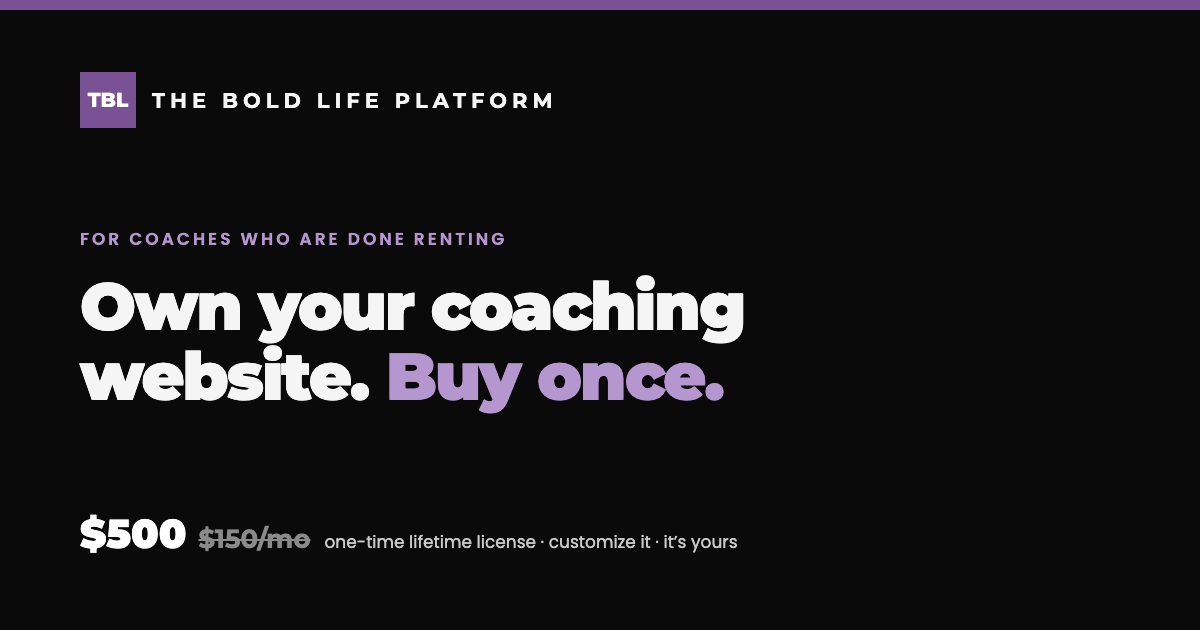
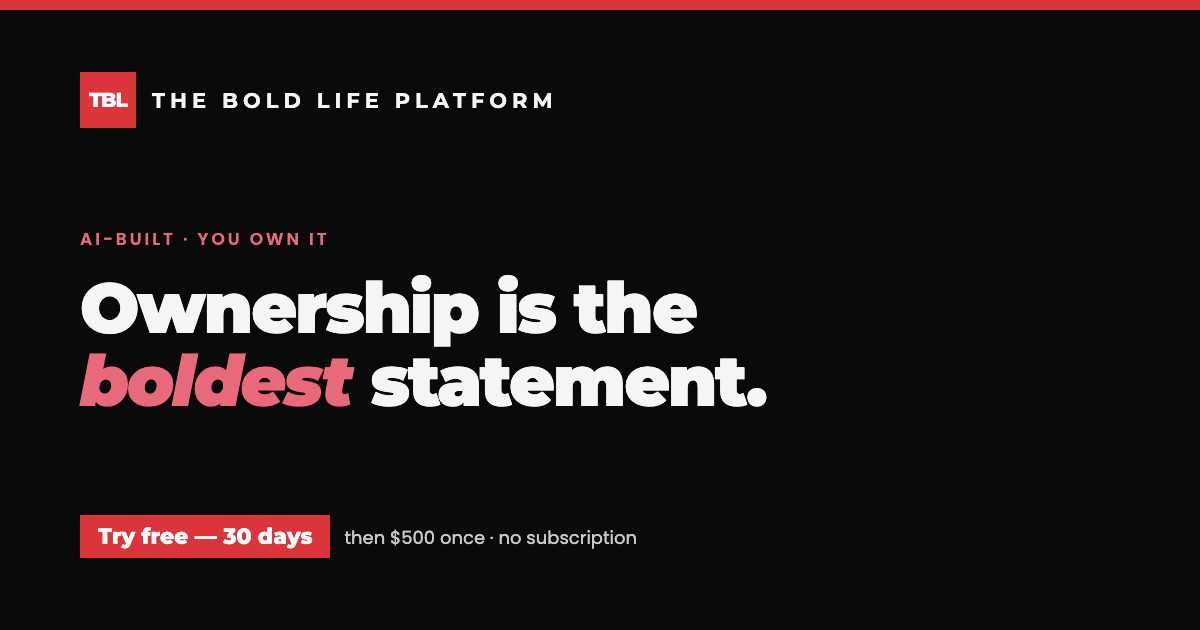
Reposition: "Ownership is the boldest statement" + 30-day free trial path
Per James: lead with the bold idea, not the competitor. Kajabi drops to a small
cost reference (content, not credibility); the brand leads with Ownership + AI.

- Hero: "Ownership is the boldest statement." Simple. We use AI to build you a
  coaching platform you own outright. CTA is "Try it free — 30 days", not Buy.
- Offer reframed as a 30-day free trial -> then $500 once to own it (no
  subscription). Steps, pricing, badges, comparison, contact and meta/title/OG
  all updated; the math card and compare now say "Renting" with Kajabi only as a
  parenthetical example.
- AI framed as the mechanism: "that speed is why owning it costs $500, not $5,000."
- Buy path wired: every "Try it free" button is data-try and auto-activates when
  TRIAL_LINK is set (safe fallback to contact/email until then).
- success.html: branded trial/payment confirmation (Stripe redirect target).
- SETUP-SELLING.md: exact steps for the trial link, the $500 one-time Stripe
  payment link, and a custom domain — the things only the owner can set up.
- New OG card; CI checks success.html.

diff --git a/index.html b/index.html
@@ -3,11 +3,11 @@
 <head>
 <meta charset="utf-8">
 <meta name="viewport" content="width=device-width, initial-scale=1, viewport-fit=cover">
-<title>The Bold Life Platform — Own Your Coaching Website. Buy Once.</title>
-<meta name="description" content="Kajabi, simplified. A white-label coaching website we build for you — your brand, your domain, yours to own — for a one-time $500 lifetime license instead of $150/month forever. See the live case study: The Bold Life.">
+<title>The Bold Life Platform — Own Your Coaching Website. Try Free.</title>
+<meta name="description" content="Ownership is the boldest statement. We use AI to build you a coaching platform you own outright — your brand, your domain, no subscription — for a one-time $500 lifetime license. See the live case study: The Bold Life.">
 <meta name="author" content="The Bold Life">
-<meta property="og:title" content="The Bold Life Platform — Own Your Coaching Website. Buy Once.">
-<meta property="og:description" content="Kajabi, simplified. A white-label coaching website we build for you — your brand, your domain, yours to own. One-time $500, not $150/month forever.">
+<meta property="og:title" content="The Bold Life Platform — Own Your Coaching Website. Try Free.">
+<meta property="og:description" content="Ownership is the boldest statement. An AI-built coaching platform you own outright — your brand, your domain, no subscription. One-time $500.">
 <meta property="og:type" content="website">
 <meta property="og:url" content="https://designresearchgroup.github.io/coach-platform/">
 <meta property="og:site_name" content="The Bold Life Platform">
@@ -19,7 +19,7 @@
 <meta property="og:image:alt" content="The Bold Life Platform — own your coaching website, buy once, $500">
 <meta name="twitter:card" content="summary_large_image">
 <meta name="twitter:title" content="The Bold Life Platform — own your coaching website">
-<meta name="twitter:description" content="Kajabi, simplified. Buy once, customize, own it. One-time $500, not $150/month.">
+<meta name="twitter:description" content="AI-built. Buy once, own it outright. One-time $500 — no subscription.">
 <meta name="twitter:image" content="https://designresearchgroup.github.io/coach-platform/img/og.png">
 <link rel="canonical" href="https://designresearchgroup.github.io/coach-platform/">
 <link rel="icon" type="image/svg+xml" href="img/favicon.svg">
@@ -28,7 +28,7 @@
 <link rel="preconnect" href="https://fonts.gstatic.com" crossorigin>
 <link href="https://fonts.googleapis.com/css2?family=Montserrat:ital,wght@0,600;0,700;0,800;0,900;1,700;1,900&family=Poppins:ital,wght@0,400;0,500;0,600;0,700;1,400;1,500&family=IBM+Plex+Mono:wght@500;700&display=swap" rel="stylesheet">
 <script type="application/ld+json">
-{"@context":"https://schema.org","@type":"Product","name":"The Bold Life Platform","description":"A white-label coaching website built for coaches to buy once, customize, and own — a simpler alternative to subscription platforms like Kajabi.","brand":{"@type":"Brand","name":"The Bold Life"},"category":"Coaching website software","offers":{"@type":"Offer","price":"500","priceCurrency":"USD","description":"One-time lifetime license"},"url":"https://designresearchgroup.github.io/coach-platform/"}
+{"@context":"https://schema.org","@type":"Product","name":"The Bold Life Platform","description":"An AI-built coaching website coaches buy once, customize, and own outright — an owned alternative to the subscription platforms coaches usually rent.","brand":{"@type":"Brand","name":"The Bold Life"},"category":"Coaching website software","offers":{"@type":"Offer","price":"500","priceCurrency":"USD","description":"One-time lifetime license"},"url":"https://designresearchgroup.github.io/coach-platform/"}
 </script>
 <style>
 /* ===== HumanData Design System v4 — tokens (humandata.id/ds) ===== */
@@ -1632,7 +1632,7 @@ svg[data-pos="solo-c"] .vg-a,svg[data-pos="solo-c"] .vg-b{opacity:0;transform:sc
           <circle cx="12" cy="12" r="4"></circle><path d="M12 2v2M12 20v2M4.93 4.93l1.41 1.41M17.66 17.66l1.41 1.41M2 12h2M20 12h2M6.34 17.66l-1.41 1.41M19.07 4.93l-1.41 1.41"></path>
         </svg>
       </button>
-      <a class="btn btn-solid btn-sm nav-book" href="#contact"><span class="nav-book-lg">Get your site</span><span class="nav-book-sm">Get it</span></a>
+      <a class="btn btn-solid btn-sm nav-book" data-try href="#pricing"><span class="nav-book-lg">Try it free</span><span class="nav-book-sm">Try</span></a>
     </div>
   </div>
 </nav>
@@ -1645,25 +1645,25 @@ svg[data-pos="solo-c"] .vg-a,svg[data-pos="solo-c"] .vg-b{opacity:0;transform:sc
   <div class="hero-grid">
     <div>
       <span class="label-accent pl-eyebrow">The Bold Life Platform &middot; For coaches</span>
-      <h1>Kajabi, simplified. And you <em>own it.</em></h1>
+      <h1>Ownership is the <em>boldest</em> statement.</h1>
       <p class="hero-sub">
-        We build you a beautiful coaching website &mdash; your brand, your words, your domain &mdash;
-        and hand it over. One flat <b>$500</b>. No <b>$150-a-month</b> forever. It&rsquo;s yours.
+        Simple. We use <b>AI</b> to build you a coaching platform you own outright &mdash;
+        your brand, your domain, no subscription. Buy once; it&rsquo;s yours for good.
       </p>
       <div class="sect-cta">
-        <a class="btn btn-solid btn-lg" href="#contact">Get your site</a>
+        <a class="btn btn-solid btn-lg" data-try href="#pricing">Try it free &mdash; 30 days</a>
         <a class="btn btn-primary btn-lg" href="#case">See the case study</a>
       </div>
       <div class="hero-trust">
-        <span class="badge badge-accent">$500 one-time</span>
-        <span class="badge badge-neutral">No monthly fee</span>
-        <span class="badge badge-neutral">You own it</span>
-        <span class="badge badge-neutral">Built in days</span>
+        <span class="badge badge-accent">30-day free trial</span>
+        <span class="badge badge-neutral">AI-built</span>
+        <span class="badge badge-neutral">$500 once, then yours</span>
+        <span class="badge badge-neutral">No subscription</span>
       </div>
     </div>
     <aside class="about-side" aria-label="Why coaches switch" style="background:var(--bg1);border:1px solid var(--bd);padding:var(--sp6);">
       <span class="label" style="display:block;margin-bottom:var(--sp4);">The math</span>
-      <div class="detail-row"><span class="detail-row-label">Kajabi</span><span class="detail-row-value">~$1,800/yr</span></div>
+      <div class="detail-row"><span class="detail-row-label">Renting</span><span class="detail-row-value">~$1,800/yr</span></div>
       <div class="detail-row"><span class="detail-row-label">Year two</span><span class="detail-row-value">~$3,600</span></div>
       <div class="detail-row"><span class="detail-row-label">Year three</span><span class="detail-row-value">~$5,400</span></div>
       <div class="detail-row is-next"><span class="detail-row-label"><b>Ours</b>Lifetime</span><span class="detail-row-value">$500 once</span></div>
@@ -1681,9 +1681,9 @@ svg[data-pos="solo-c"] .vg-a,svg[data-pos="solo-c"] .vg-b{opacity:0;transform:sc
     </div>
     <div class="vs reveal">
       <div class="vs-col lose">
-        <span class="vs-k">Renting — Kajabi</span>
-        <div class="vs-name">Kajabi</div>
-        <div class="vs-price">$150<small>per month &mdash; ~$1,800/yr, forever</small></div>
+        <span class="vs-k">Renting — a subscription</span>
+        <div class="vs-name">Rented</div>
+        <div class="vs-price">$150<small>per month &mdash; ~$1,800/yr, forever (e.g. Kajabi)</small></div>
         <ul>
           <li><b>&times;</b> You rent &mdash; stop paying and it&rsquo;s gone</li>
           <li><b>&times;</b> A sprawling suite you mostly don&rsquo;t use</li>
@@ -1694,8 +1694,9 @@ svg[data-pos="solo-c"] .vg-a,svg[data-pos="solo-c"] .vg-b{opacity:0;transform:sc
       <div class="vs-col win">
         <span class="vs-k">Owning — The Bold Life Platform</span>
         <div class="vs-name">The Bold Life Platform</div>
-        <div class="vs-price">$500<small>one time &mdash; a lifetime license</small></div>
+        <div class="vs-price">$500<small>one time, after a 30-day free trial &mdash; yours for good</small></div>
         <ul>
+          <li><b>&check;</b> Free for 30 days, then it&rsquo;s yours</li>
           <li><b>&check;</b> You own the site and the files, outright</li>
           <li><b>&check;</b> Just what a coach needs &mdash; nothing you don&rsquo;t</li>
           <li><b>&check;</b> Your own domain; host it free</li>
@@ -1717,18 +1718,18 @@ svg[data-pos="solo-c"] .vg-a,svg[data-pos="solo-c"] .vg-b{opacity:0;transform:sc
     <div class="steps reveal">
       <div class="step-c">
         <span class="step-num">STEP 01</span>
-        <h3>Tell us your brand</h3>
-        <p>Your colours, your words, your offer. A short conversation and whatever you already have.</p>
+        <h3>Start free</h3>
+        <p>Begin a 30-day free trial and tell us your brand &mdash; your colours, your words, your offer.</p>
       </div>
       <div class="step-c">
         <span class="step-num">STEP 02</span>
-        <h3>We build &amp; launch</h3>
-        <p>Your site, your domain, live in days &mdash; beautiful on every screen, fast, and accessible.</p>
+        <h3>AI builds it, fast</h3>
+        <p>We use AI to build your site &mdash; your brand, your domain, live in days. That speed is why owning it costs $500, not $5,000.</p>
       </div>
       <div class="step-c">
         <span class="step-num">STEP 03</span>
-        <h3>You own it</h3>
-        <p>Host it free, forever, with no monthly fee. Bookings and payments run on your own Calendly &amp; Stripe.</p>
+        <h3>Own it for $500</h3>
+        <p>Love it? Pay once and own it outright &mdash; host it free, no subscription, ever. Bookings &amp; payments run on your own Calendly &amp; Stripe.</p>
       </div>
     </div>
   </div>
@@ -1765,25 +1766,29 @@ svg[data-pos="solo-c"] .vg-a,svg[data-pos="solo-c"] .vg-b{opacity:0;transform:sc
   <div class="wrap">
     <div class="sect-head reveal">
       <span class="label-accent">Pricing</span>
-      <h2>One price. Yours for good.</h2>
+      <h2>Free for 30 days. Then yours.</h2>
     </div>
     <div class="price-card reveal">
       <div>
-        <div class="price-big">$500 <s>$150/mo</s></div>
-        <div class="price-sub">one-time lifetime license &middot; no subscription</div>
+        <div class="price-big">Free</div>
+        <div class="price-sub">for 30 days &mdash; then $500 once, and it&rsquo;s yours for good. No subscription.</div>
+        <div class="sect-cta" style="margin-top:var(--sp6);">
+          <a class="btn btn-solid btn-lg" data-try href="#contact">Start your free trial</a>
+        </div>
       </div>
       <ul>
-        <li><b>&check;</b> Custom-built coaching website</li>
+        <li><b>&check;</b> 30-day free trial &mdash; see it live first</li>
         <li><b>&check;</b> Your brand, your words, your domain</li>
-        <li><b>&check;</b> Light &amp; dark, mobile, accessible</li>
+        <li><b>&check;</b> AI-built; light &amp; dark, mobile, accessible</li>
         <li><b>&check;</b> You own the code and the files</li>
         <li><b>&check;</b> Free hosting set up for you</li>
         <li><b>&check;</b> Bookings &amp; payments on your own tools</li>
       </ul>
     </div>
-    <p class="honest reveal"><b>Straight talk:</b> the $500 covers building and launching your site, which
-      you then own and host for free. Need ongoing changes later? An optional care plan covers updates
-      and support &mdash; but you are never required to pay monthly to keep your site.</p>
+    <p class="honest reveal"><b>Straight talk:</b> start free for 30 days. If you keep it, it&rsquo;s a
+      one-time <b>$500</b> &mdash; then you own and host your site for free, with no subscription. We
+      confirm before anything is billed; there&rsquo;s no surprise auto-charge. An optional care plan
+      covers future updates, but you never have to pay monthly to keep your site.</p>
   </div>
 </section>
 
@@ -1792,12 +1797,12 @@ svg[data-pos="solo-c"] .vg-a,svg[data-pos="solo-c"] .vg-b{opacity:0;transform:sc
   <div class="wrap">
     <div class="book reveal">
       <div>
-        <h2>Own your coaching site.</h2>
-        <p>Tell us a little about your practice and we&rsquo;ll show you what yours could look like &mdash;
-           no obligation, no subscription.</p>
+        <h2>Try it free for 30 days.</h2>
+        <p>Tell us a little about your practice and we&rsquo;ll spin up your trial site &mdash;
+           no obligation, no subscription, nothing billed until you decide to own it.</p>
       </div>
       <div class="book-side">
-        <a class="btn btn-solid btn-lg" href="mailto:Jamesyn@theboldlifecoaching.com?subject=The%20Bold%20Life%20Platform%20%E2%80%94%20I%20want%20my%20own%20site">Get your site</a>
+        <a class="btn btn-solid btn-lg" data-try href="mailto:Jamesyn@theboldlifecoaching.com?subject=The%20Bold%20Life%20Platform%20%E2%80%94%20start%20my%20free%20trial">Start your free trial</a>
         <p class="book-mail">or write to<br><a href="mailto:Jamesyn@theboldlifecoaching.com">Jamesyn@theboldlifecoaching.com</a></p>
       </div>
     </div>
@@ -1853,6 +1858,21 @@ svg[data-pos="solo-c"] .vg-a,svg[data-pos="solo-c"] .vg-b{opacity:0;transform:sc
     root.setAttribute('data-theme', next);
     try{ localStorage.setItem('tblp-theme', next); }catch(e){}
   }); }
+
+  /* ----- Try path -----
+     Paste your trial sign-up link below (a Stripe free-trial checkout, a Tally
+     or Google form, or a Calendly) to turn every "Try it free" button into that
+     flow. Until then the buttons route to the pricing/contact section and the
+     contact button opens email, so nothing is ever a dead link. The one-time
+     $500 to own it is sent/collected after the 30 days — see SETUP-SELLING.md. */
+  var TRIAL_LINK = ""; // <-- paste your trial sign-up link here
+  if(TRIAL_LINK){
+    [].slice.call(document.querySelectorAll('[data-try]')).forEach(function(a){
+      a.setAttribute('href', TRIAL_LINK);
+      a.setAttribute('rel', 'noopener');
+    });
+  }
+
   var reduce = window.matchMedia && window.matchMedia('(prefers-reduced-motion: reduce)').matches;
   var els = [].slice.call(document.querySelectorAll('.reveal'));
   if(reduce || !els.length){ els.forEach(function(el){el.classList.add('in');}); return; }

diff --git a/success.html b/success.html
@@ -1,0 +1,58 @@
+<!doctype html>
+<html lang="en">
+<head>
+<meta charset="utf-8">
+<meta name="viewport" content="width=device-width, initial-scale=1, viewport-fit=cover">
+<title>You're in — The Bold Life Platform</title>
+<meta name="robots" content="noindex">
+<link rel="icon" type="image/svg+xml" href="img/favicon.svg">
+<meta name="theme-color" content="#DC343B">
+<link rel="preconnect" href="https://fonts.googleapis.com">
+<link rel="preconnect" href="https://fonts.gstatic.com" crossorigin>
+<link href="https://fonts.googleapis.com/css2?family=Montserrat:wght@700;800;900&family=Poppins:wght@400;500;600&family=IBM+Plex+Mono:wght@500;700&display=swap" rel="stylesheet">
+<style>
+:root{
+  --accent:#DC343B;--bg:#F5F5F5;--bg1:#fff;--t1:#080808;--t2:#3D3D3D;--t3:#6B6B6B;--bd:rgba(0,0,0,.12);
+}
+@media (prefers-color-scheme: dark){:root{--bg:#080808;--bg1:#0F0F0F;--t1:#F5F5F5;--t2:#B8B8B8;--t3:#787878;--bd:rgba(255,255,255,.12);}}
+*{box-sizing:border-box;margin:0;}
+body{font-family:'Poppins',-apple-system,sans-serif;background:var(--bg);color:var(--t1);
+  min-height:100vh;display:flex;align-items:center;justify-content:center;padding:24px;line-height:1.6;}
+.card{background:var(--bg1);border:1px solid var(--bd);border-top:4px solid var(--accent);
+  max-width:620px;width:100%;padding:48px 40px;}
+.mark{display:inline-flex;align-items:center;gap:12px;margin-bottom:28px;}
+.mark b{width:40px;height:40px;background:var(--accent);color:#fff;display:flex;align-items:center;
+  justify-content:center;font-family:'Montserrat',sans-serif;font-weight:800;font-size:15px;}
+.mark span{font-family:'IBM Plex Mono',monospace;font-weight:700;letter-spacing:4px;font-size:13px;}
+.eyebrow{font-family:'IBM Plex Mono',monospace;font-size:12px;font-weight:700;letter-spacing:.14em;
+  text-transform:uppercase;color:var(--accent);margin-bottom:16px;}
+h1{font-family:'Montserrat',sans-serif;font-weight:900;font-size:40px;line-height:1.1;
+  letter-spacing:-1.5px;margin-bottom:20px;}
+p{color:var(--t2);font-size:16px;margin-bottom:16px;max-width:52ch;}
+ol{color:var(--t2);font-size:16px;margin:0 0 24px;padding-left:20px;}
+ol li{margin-bottom:10px;}
+ol li b{color:var(--t1);font-weight:600;}
+.btn{display:inline-flex;align-items:center;gap:8px;padding:14px 28px;background:var(--accent);
+  color:#fff;font-weight:600;letter-spacing:.02em;text-decoration:none;}
+.btn:hover{background:#B7272E;}
+.mail{font-family:'IBM Plex Mono',monospace;font-size:13px;color:var(--t3);margin-top:20px;}
+.mail a{color:var(--accent);}
+</style>
+</head>
+<body>
+  <main class="card">
+    <span class="mark"><b>TBL</b><span>THE&nbsp;BOLD&nbsp;LIFE&nbsp;PLATFORM</span></span>
+    <div class="eyebrow">You're in</div>
+    <h1>Your site is on the way.</h1>
+    <p>Thank you &mdash; we&rsquo;ve got your details and your <b>30-day free trial</b> is starting.
+       Here&rsquo;s what happens next:</p>
+    <ol>
+      <li><b>Within one business day</b> we&rsquo;ll email you to confirm your brand, your words, and your domain.</li>
+      <li><b>In a few days</b> your site goes live on a trial link for you to use and share.</li>
+      <li><b>At the end of 30 days,</b> if you love it, a one-time <b>$500</b> makes it yours outright &mdash; no subscription, host it free forever. Nothing is billed until you say yes.</li>
+    </ol>
+    <a class="btn" href="/coach-platform/">Back to the platform</a>
+    <p class="mail">Questions? <a href="mailto:Jamesyn@theboldlifecoaching.com">Jamesyn@theboldlifecoaching.com</a></p>
+  </main>
+</body>
+</html>

diff --git a/SETUP-SELLING.md b/SETUP-SELLING.md
@@ -1,0 +1,79 @@
+# Turn this into a real, sellable funnel
+
+The sales page is live. To actually take orders you need two things that only you
+can set up (they involve your money and your accounts): a **trial sign-up link**
+and, to convert trials, a **$500 Stripe payment link**. Plus a **domain**. Here's
+the whole path — about 20 minutes.
+
+> The page is already wired for all of this. Until you paste your links, every
+> "Try it free" button safely routes to the contact section / email, so nothing is
+> ever a dead link.
+
+---
+
+## The offer (how it's framed on the page)
+
+**Free for 30 days → then $500 once, and you own it.** No subscription. The $500 is
+a one-time license; the client then owns and hosts their site for free.
+
+## 1. The trial sign-up link (the "Try it free" buttons)
+
+Pick how someone starts a trial, then paste that URL into `index.html`:
+
+- **Simplest (works today):** leave it — the buttons open an email to you, and you
+  start the trial by hand. Good for the first few clients.
+- **A form** (recommended): make a free [Tally](https://tally.so) or Google Form
+  that collects name, email, brand colour, and current website. 
+- **A call:** a Calendly link for a 15-minute kickoff.
+
+Then open `index.html`, find this line near the bottom, and paste your URL:
+
+```js
+var TRIAL_LINK = ""; // <-- paste your trial sign-up link here
+```
+
+Every "Try it free" button instantly points to it. Commit and push — it's live.
+
+## 2. The $500 payment (to convert a trial to ownership)
+
+Because this is a **free-trial-then-one-time-$500** offer (not a monthly
+subscription), the cleanest path is a one-time payment link you send near day 25:
+
+1. Create a free [Stripe](https://stripe.com) account (this is **your** account —
+   payouts go to your bank).
+2. **Products → Payment Links → New.** One-time price **$500**, name it
+   "The Bold Life Platform — Lifetime License."
+3. Under **After payment**, set the confirmation redirect to your success page:
+   `https://<your-domain>/coach-platform/success.html` (or your domain root +
+   `/success.html` once you're on a custom domain).
+4. Turn on **collect customer name & email** (and a custom field for their domain).
+5. Copy the link (looks like `https://buy.stripe.com/...`). Send it to a client at
+   the end of their trial. That's the sale.
+
+> Why not auto-charge after the trial? Stripe's automatic trials are for *monthly
+> subscriptions*, which bills forever — the opposite of "you own it." A one-time
+> $500 link, sent when the trial ends, keeps the promise honest. If you later want
+> it automated, collect a card at sign-up via Stripe and charge once on day 30.
+
+## 3. Get it on a proper domain
+
+The site runs on GitHub Pages at `designresearchgroup.github.io/coach-platform/`.
+To put it on your own domain:
+
+1. Register the domain at any registrar (e.g. Namecheap, Cloudflare).
+2. Add a file named `CNAME` at the repo root containing just your domain, e.g.
+   `platform.theboldlife.coach` — **or** set it in **Settings → Pages → Custom
+   domain**.
+3. Point DNS at GitHub Pages:
+   - A subdomain (e.g. `platform.theboldlife.coach`): one **CNAME** record →
+     `designresearchgroup.github.io`.
+   - An apex domain (e.g. `theboldlifeplatform.com`): four **A** records →
+     `185.199.108.153`, `185.199.109.153`, `185.199.110.153`, `185.199.111.153`.
+4. Wait for DNS, then tick **Enforce HTTPS** in Settings → Pages.
+5. Once live on the domain, update the `canonical` and `og:` URLs in `index.html`
+   (and `success.html`'s links) to the new address so previews and SEO are right.
+
+---
+
+**Tell me your trial link, your $500 Stripe link, and your domain, and I'll wire all
+three and redeploy — the whole funnel goes live in one push.**
